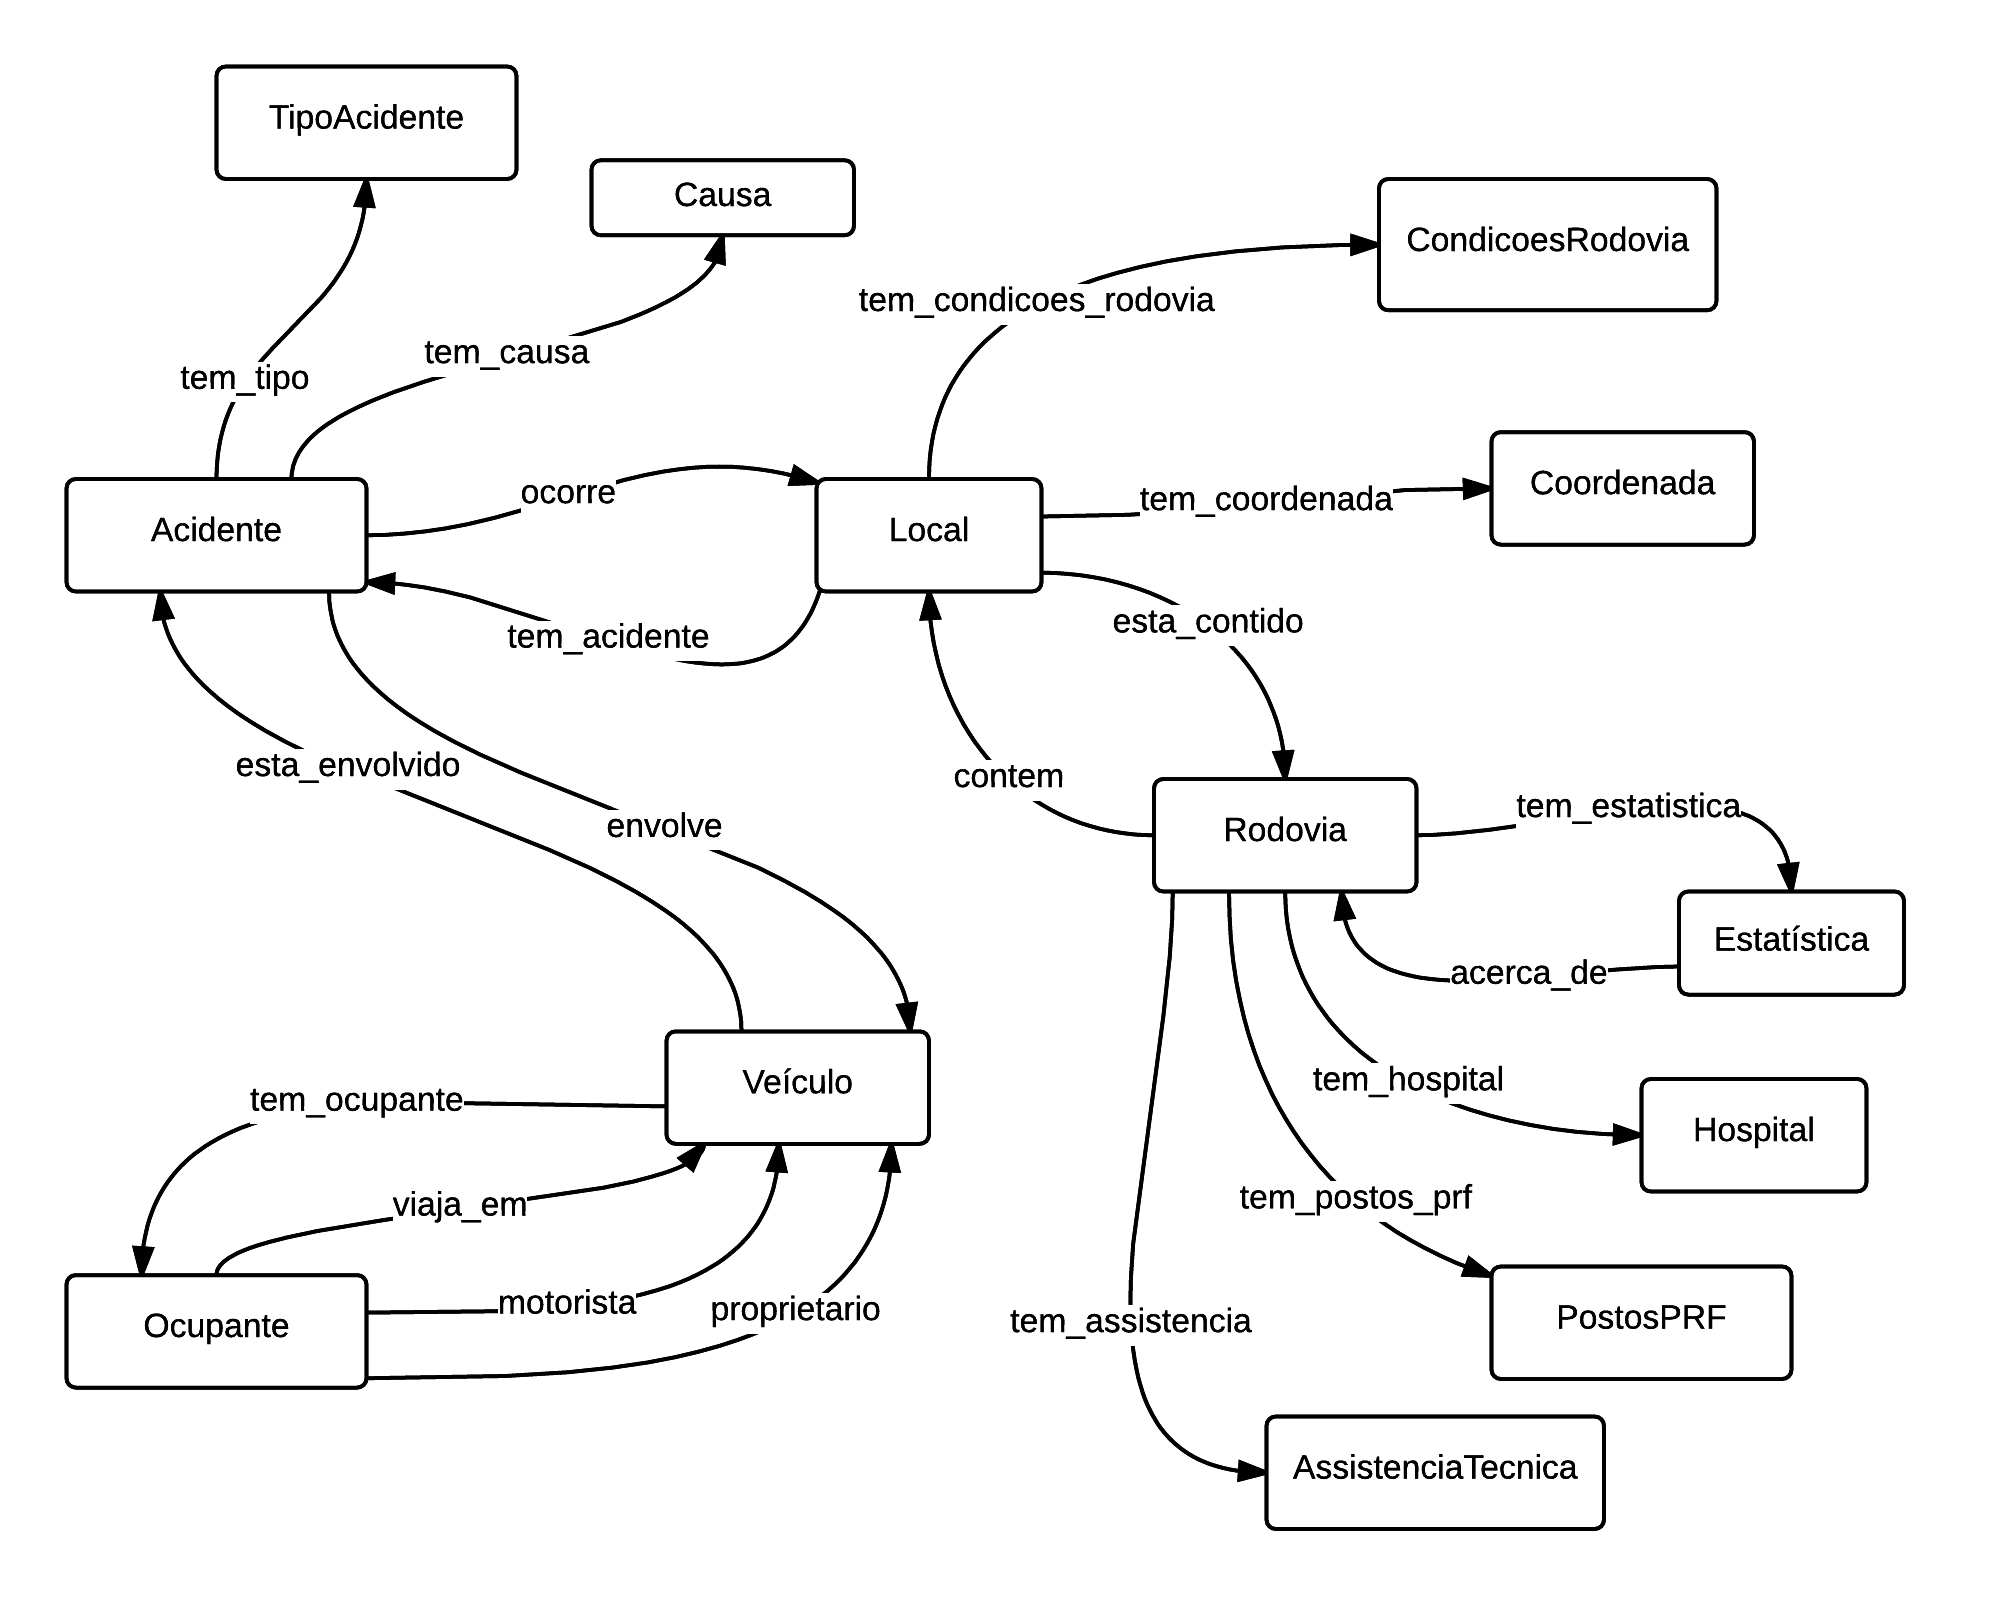
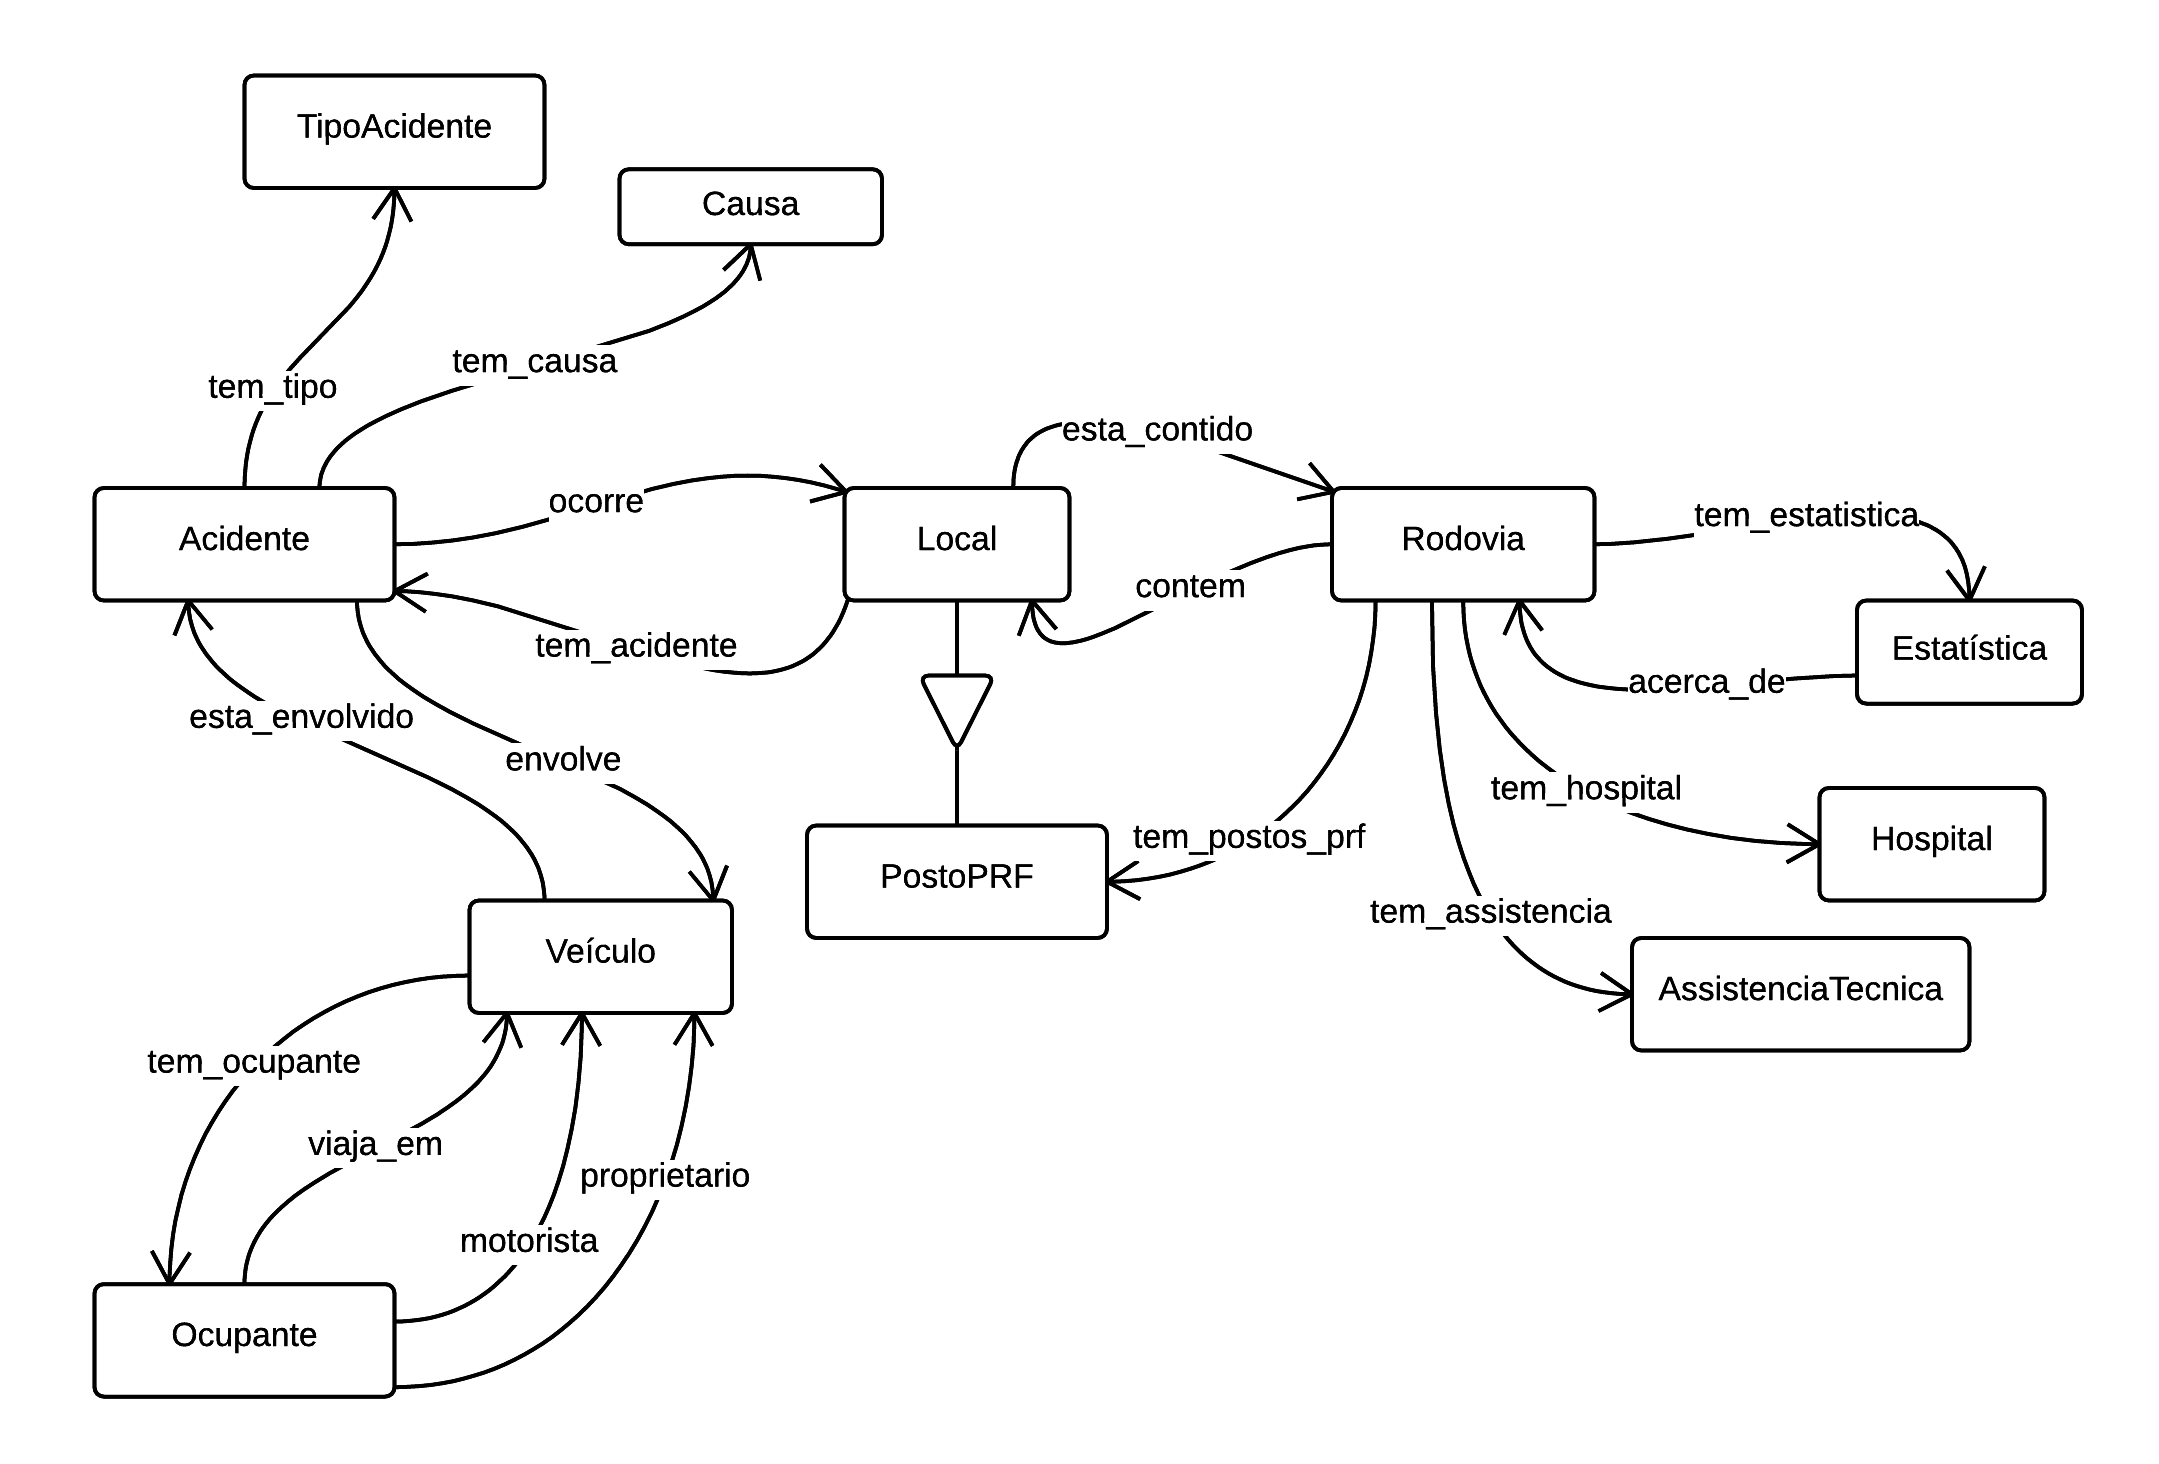
Adjusting the classes attributes section

diff --git a/editaveis/capitulos/atributos_classes.tex b/editaveis/capitulos/atributos_classes.tex
@@ -1,6 +1,5 @@
 % Classe Acidente
-\noindent
-\emph{\textbf{Acidente}}
+\subsubsection{\textbf{Acidente}}
 
   A classe Acidente pode ser considerada como a classe central para a aplicação e para a ontologia,
   uma vez que todas as outras classes estão relacionadas a um acidente ocorrido.
@@ -12,7 +11,8 @@
       \textbf{Classe} & \textbf{Atributo} & \textbf{Descrição}\\
       \hline
 	Acidente & data\_acidente & Data da ocorrência do acidente\\
-		  & hora\_acidente & Horário da ocorrência do acidente\\ 
+		 & hora\_acidente & Horário da ocorrência do acidente\\
+		 & danos\_causados & Descrição dos danos causados pelo acidente\\
       \hline
     \end{tabular}
     \caption{Atributos da classe Acidente}
@@ -20,8 +20,7 @@
     \end{table*}
     
 % Classe Veículo
-\noindent
-\emph{\textbf{Veículo}}
+\subsubsection{\textbf{Veículo}}
 
   A classe Veículo representa os veículos envolvidos em um acidente.
   
@@ -43,12 +42,11 @@
     \label{tab:attr_veiculo}
     \end{table*}
 
-\vfill
-\pagebreak
+% \vfill
+% \pagebreak
 
 % Classe Ocupante
-\noindent
-\emph{\textbf{Ocupante}}
+\subsubsection{\textbf{Ocupante}}
 
   A classe Ocupante representa as pessoas que podem estar dentro de um veículo no momento do acidente.
   
@@ -73,8 +71,7 @@
     \end{table*}
     
 % Classe Local
-\noindent
-\emph{\textbf{Local}}
+\subsubsection{\textbf{Local}}
 
   A classe Local representa o local, dentro de uma rodovia, no qual um acidente ocorreu.
   
@@ -96,12 +93,11 @@
     \label{tab:attr_local}
     \end{table*}
 
-\vfill
-\pagebreak
+% \vfill
+% \pagebreak
     
 % Classe Rodovia
-\noindent
-\emph{\textbf{Rodovia}}
+\subsubsection{\textbf{Rodovia}}
 
   A classe Rodovia representa as rodovias federais brasileiras. No domínio da aplicação, todo acidente ocorre em uma rodovia.
   
@@ -120,5 +116,136 @@
     \caption{Atributos da classe Rodovia}
     \label{tab:attr_rodovia}
     \end{table*}
+
+% Classe Estatística    
+\subsubsection{\textbf{Estatística}}
+
+  A classe Estatística representa as estatísticas que pode se inferir sobre os acidentes ocorridos em uma rodovia.
+  
+    \begin{table*}[!h]
+    \centering
+    \begin{tabular}{p{0.15\linewidth}p{0.23\linewidth}p{0.5\linewidth}}
+      \hline
+      \textbf{Classe} & \textbf{Atributo} & \textbf{Descrição}\\
+      \hline
+	Estatística & nome\_estatistica & Nome da estatística\\
+		    & tipo\_estatistica & Indica o tipo da estatística\\
+		    & valor\_estatistica & Identifica o valor da estatística\\
+		    & desvio\_padrao & Indica o desvio padrão da estatística calculada\\
+		    & data\_calculo & Indica a data em que foi calculada aquela estatística\\
+      \hline
+    \end{tabular}
+    \caption{Atributos da classe Estatística}
+    \label{tab:attr_estatistica}
+    \end{table*}    
+
+% Classe Causa    
+\subsubsection{\textbf{Causa}}
+
+  A classe Causa representa as possíveis causas de uma acidente. Para trabalhos futuros, pretende-se especializar esta classe 
+  nas diferentes causas de acidentes existentes ou, se possível, utilizar uma ontologia de causas de acidentes.
+  
+    \begin{table*}[!h]
+    \centering
+    \begin{tabular}{p{0.15\linewidth}p{0.23\linewidth}p{0.5\linewidth}}
+      \hline
+      \textbf{Classe} & \textbf{Atributo} & \textbf{Descrição}\\
+      \hline
+	Causa & descricao\_causa & Descrição da causa do acidente\\
+	      & tipo\_causa & Indica o tipo da causa de acidente (Ex.: Falha técnica, condição da pista, etc.)\\
+	      & periculosidade & Identifica o grau de periculosidade da causa\\
+      \hline
+    \end{tabular}
+    \caption{Atributos da classe Causa}
+    \label{tab:attr_causa}
+    \end{table*}      
     
-\vfill    
+% Classe TipoAcidente    
+\subsubsection{\textbf{TipoAcidente}}
+
+  A classe TipoAcidente representa os tipos de acidentes que podem estar relacionados a determinado acidente.
+  
+    \begin{table*}[!h]
+    \centering
+    \begin{tabular}{p{0.15\linewidth}p{0.23\linewidth}p{0.5\linewidth}}
+      \hline
+      \textbf{Classe} & \textbf{Atributo} & \textbf{Descrição}\\
+      \hline
+	TipoAcidente & nome\_tipo & Indica o nome do tipo de acidente\\
+		     & descricao\_tipo & Descrição do tipo de acidente\\
+      \hline
+    \end{tabular}
+    \caption{Atributos da classe TipoAcidente}
+    \label{tab:attr_tipo_acidente}
+    \end{table*}
+    
+% Classe PostosPRF    
+\subsubsection{\textbf{PostoPRF}}
+
+  A classe PostoPRF representa os os postos da PRF que podem estar localizados em uma rodovia.
+  Os postos da PRF localizam-se ao longo das rodovias, o que os classificam como um tipo de local definido na
+  classe Local. Logo, a classe PostoPRF possuem os mesmos atributos da classe Local, como latitude e longitude,
+  e mais os seguintes:
+  
+    \begin{table*}[!h]
+    \centering
+    \begin{tabular}{p{0.15\linewidth}p{0.23\linewidth}p{0.5\linewidth}}
+      \hline
+      \textbf{Classe} & \textbf{Atributo} & \textbf{Descrição}\\
+      \hline
+	PostoPRF & nome\_posto & Indica o nome do posto da PRF (Ex.: 10º posto da Polícia Rodoviária Federal)\\
+		 & encarregado\_posto & Indica o nome do chefe responsável pelo posto da PRF\\
+		 & telefone & Indica o número de telefone do posto da PRF\\
+		 & email & Indica o endereço de \textit{e-mail} do posto da PRF\\
+		 & detalhes\_posto & Informa detalhes sobre o posto da PRF (Ex.: Há local para pouso de aeronaves)\\
+      \hline
+    \end{tabular}
+    \caption{Atributos da classe PostoPRF}
+    \label{tab:attr_postoprf}
+    \end{table*}
+    
+% Classe AssistenciaTecnica    
+\subsubsection{\textbf{AssistenciaTecnica}}
+
+  A classe AssistenciaTecnica representa entidades que possam oferecer algum serviço de assistência aos motoristas, localizadas 
+  ao longo ou nas cidades mais próximas de uma rodovia.
+  
+    \begin{table*}[!h]
+    \centering
+    \begin{tabular}{p{0.15\linewidth}p{0.23\linewidth}p{0.5\linewidth}}
+      \hline
+      \textbf{Classe} & \textbf{Atributo} & \textbf{Descrição}\\
+      \hline
+	PostoPRF & nome\_assistencia & Indica o nome da unidade de assistência técnica\\
+		 & tipo\_assistencia & Indica o tipo de assistência oferecida (Ex.: Borracharia)\\
+		 & endereco & Indica o endereço da unidade de assistência técnica\\
+		 & telefone & Indica o número de telefone da unidade de assistência técnica\\
+      \hline
+    \end{tabular}
+    \caption{Atributos da classe PostoPRF}
+    \label{tab:attr_postoprf}
+    \end{table*}
+    
+% Classe Hospital    
+\subsubsection{\textbf{Hospital}}
+
+  A classe Hospital representa as unidades hospitalares localizadas próxima a uma rodovia. Para trabalhos futuros, pretende-se
+  utilizar uma ontologia para a definição de hospitais.
+  
+    \begin{table*}[!h]
+    \centering
+    \begin{tabular}{p{0.15\linewidth}p{0.23\linewidth}p{0.5\linewidth}}
+      \hline
+      \textbf{Classe} & \textbf{Atributo} & \textbf{Descrição}\\
+      \hline
+	Hospital & nome\_hospital & Indica o nome do hospital\\
+		 & especialidade & Indica qual a especialidade do hospital\\
+		 & endereco & Indica o endereço do hospital\\
+		 & telefone & Indica o número de telefone do hospital\\
+      \hline
+    \end{tabular}
+    \caption{Atributos da classe Hospital}
+    \label{tab:attr_hospital}
+    \end{table*}
+    
+\vfill

diff --git a/editaveis/capitulos/construcao_ontologia.tex b/editaveis/capitulos/construcao_ontologia.tex
@@ -13,13 +13,17 @@
       
       Para este trabalho, é esperado apenas uma ontologia capaz de oferecer um arcabouço mais semântico para o \textit{software} 
       "Pé na Estrada", de modo a provocar mudanças iniciais significativas no \textit{software}.
-      Para trabalhos futuros, pretende-se utilizar ontologias específicas para as entidades como Pessoa, Veículo e Rodovia, para
-      aumentar a representatividade da ontologia, além de incluir atributos mais específicos para cada classe.
-    
+      Para trabalhos futuros, pretende-se utilizar ontologias específicas para as entidades como Pessoa, Veículo, Rodovia e
+      Hospital para aumentar a representatividade da ontologia, 
+      além de incluir atributos mais específicos para cada classe.
+  
+  \vfill
+  \pagebreak
   \section{Ontologias encontradas}
    
       \input{editaveis/capitulos/ontologias_acidentes}
       
+  \vfill
   \pagebreak
   \section{Estrutura da ontologia}
 
@@ -38,7 +42,7 @@
       
 	  Como não foi possível encontrar o código OWL das ontologias pesquisadas, a equipe decidiu aproveitar a
 	  modelagem conceitual feita nos trabalhos encontrados. A partir desses modelos, foi construído o modelo 
-	  para a ontologia, ilustrado na figura \ref{fig:modelo_conceitual_ontologia}.
+	  para a ontologia, ilustrado na Figura \ref{fig:modelo_conceitual_ontologia}.
 	  
 	  Após a elaboração do mapa conceitual inicial as propriedades entre as classes foram definidas e as ontologias
 	  encontradas foram utilizadas. 
@@ -46,34 +50,42 @@
 
 	  \begin{table*}[!h]
 	  \centering
-	  \begin{tabular}{p{0.15\linewidth}p{0.15\linewidth}}
+	  \begin{tabular}{p{0.2\linewidth}p{0.20\linewidth}p{0.20\linewidth}}
 	    \hline
-	    \textbf{Classe} & \textbf{Propriedade} \\
+	    \textbf{Classe} & \textbf{Propriedade} & \textbf{Objeto (Classe)}\\
 	    \hline
-	      Acidente & tem\_tipo\\
-		& tem\_causa\\
-		& ocorre\\
-		& esta\_contido\\
+	      Acidente & tem\_tipo & TipoAcidente\\
+		& tem\_causa & Causa\\
+		& ocorre & Local\\
+		& envolve & Veiculo\\
 	    \hline
-	      Veículo & esta\_envolvido\\
-		& tem\_ocupante\\
+	      Veículo & esta\_envolvido & Acidente\\
+		& tem\_ocupante & Ocupante\\
 	    \hline
-	      Ocupante & viaja\_em\\
-		& motorista\\
-		& proprietario\\
+	      Ocupante & viaja\_em & Veiculo\\
+		& motorista & Veiculo\\
+		& proprietario & Veiculo\\
 	    \hline
-	      Local & tem\_acidente\\
-		& tem\_coordenada\\
-		& esta\_contido\\
-		& condicoes\_rodovias\\
+	      Local & tem\_acidente & Acidente\\
+		& esta\_contido & Rodovia\\
 	    \hline
-	      Rodovia & tem\_estatistica\\
-		& contem\\
-		& tem\_postos\_prf\\
-		& tem\_hospital\\
-		& tem\_assistencia\\
+	      Rodovia & tem\_estatistica & Estatistica\\
+		& contem & Local\\
+		& tem\_postos\_prf & PostosPRF\\
+		& tem\_hospital & Hospital\\
+		& tem\_assistencia & AssistenciaTecnica\\
 	    \hline
-	      Estatística & acerca\\
+	      Estatística & acerca & Rodovia\\
+	    \hline
+	      Causa & - & -\\
+	    \hline
+	      TipoAcidente & - & -\\
+	    \hline
+	      PostoPRF & - & -\\
+	    \hline
+	      AssistenciaTecnica & - & -\\
+	    \hline
+	      Hospital & - & -\\
 	    \hline
 	  \end{tabular}
 	  \caption{Classes e Propriedades}
@@ -81,8 +93,10 @@
 	  \end{table*}
 	  
 	  Os relacionamentos entre as classes podem ser vistos melhor no modelo conceitual da ontologia ilustrado na
-	  Figura \ref{fig:modelo_conceitual_ontologia}.\\
+	  Figura \ref{fig:modelo_conceitual_ontologia}.
 	  
+	  \vfill
+	  \pagebreak
 	  \begin{figure}[!htb]
 	    \centering
 	    \includegraphics[scale = 0.23]{modelo_conceitual_ontologia}
@@ -96,19 +110,15 @@
 	  apresentado na Figura \ref{fig:modelo_conceitual_ontologia}.
 
 	  \footnotetext[2]{http://protege.stanford.edu/}
-    
-	\pagebreak
-	\subsubsection{Atributos das classes}
-	
-	    Apesar de não estar descrito no modelo conceitual apresentado, por questão de organização, as classes levantadas
-	    possuem atributos importantes que serão descritos nesse tópico.
-	    
-	    Para a definição dos atributos das classes foram considerados alguns atributos definidos no modelo de dados atual da PRF.\\
-	    
-	    \input{editaveis/capitulos/atributos_classes}
       
+      \vfill
       \pagebreak
-      \subsection{Potencialidades esperadas}
+      \subsection{Atributos das classes}
+	
+	  Apesar de não estar descrito no modelo conceitual apresentado, por questão de organização, as classes levantadas
+	  possuem atributos importantes que serão descritos nesse tópico.
 	  
-	  Para definir o modelo da ontologia foi adotada uma priorização das classes, onde ficou definido que as classes
-	  de maior importância deveriam ser mais facilmente acessíveis no grafo.
+	  Para a definição dos atributos das classes foram considerados alguns atributos definidos no modelo de dados atual
+	  da PRF.
+	  
+	  \input{editaveis/capitulos/atributos_classes}

diff --git a/editaveis/capitulos/ontologias_acidentes.tex b/editaveis/capitulos/ontologias_acidentes.tex
@@ -1,4 +1,3 @@
-
   A fim de não ter retrabalho desnecessário, e de usar os conhecimentos previamente
   pesquisados por outros grupos de pesquisa, este grupo procurou em bases de periódicos e no
   próprio Google por ontologias que já existissem, e pudessem retratar de forma semântica os
